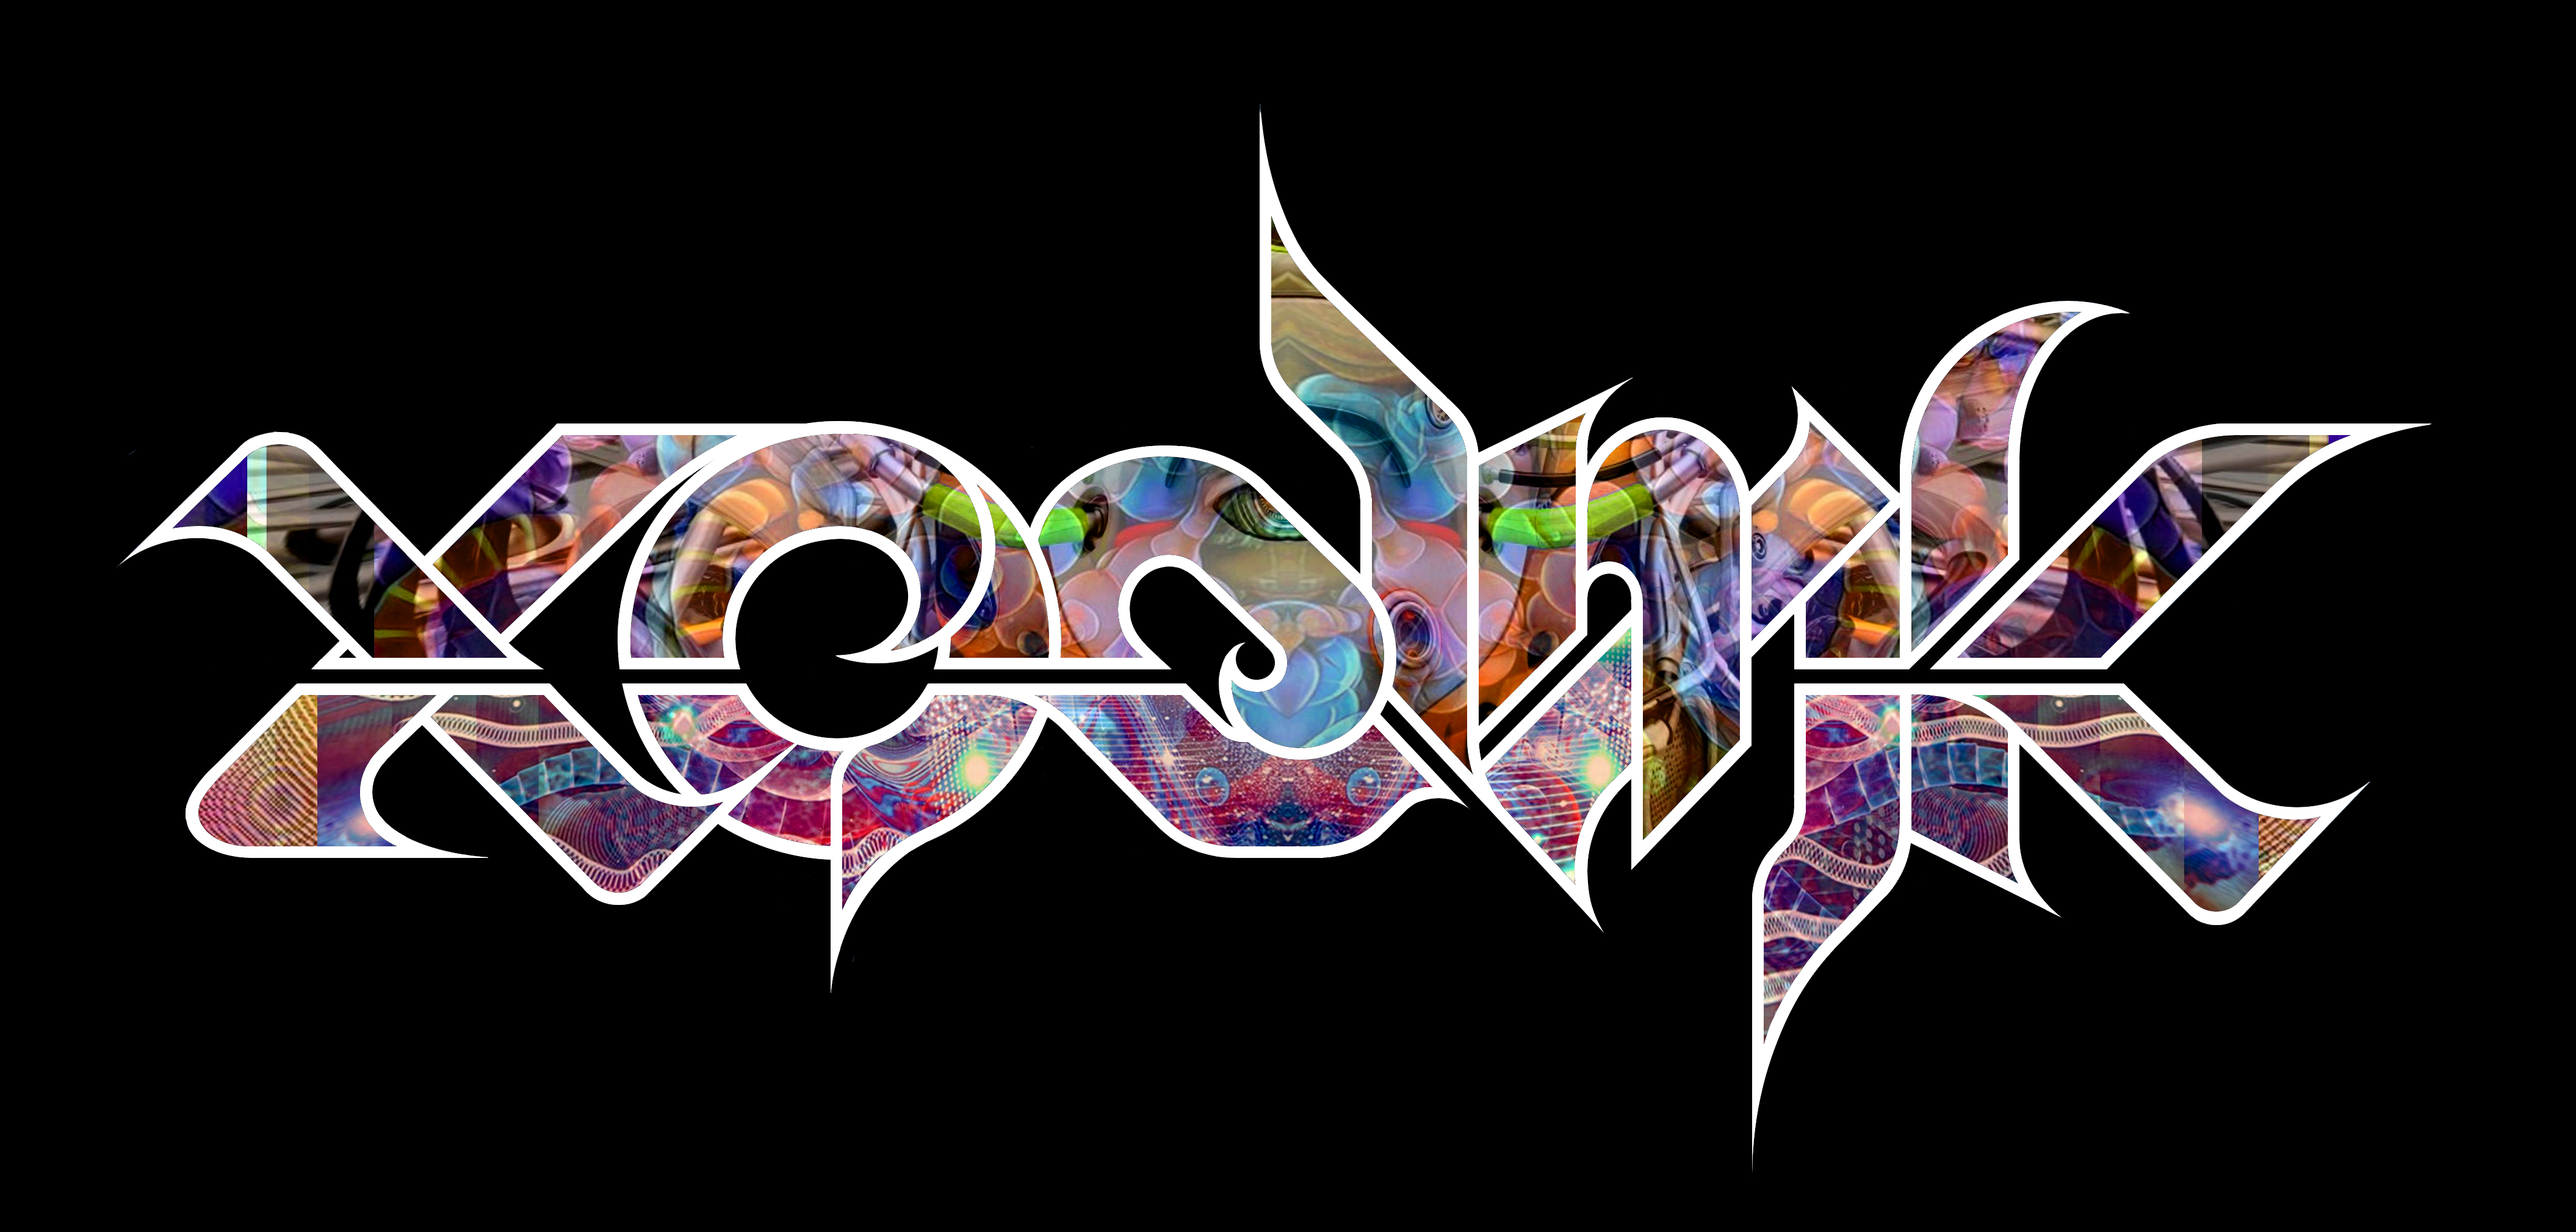
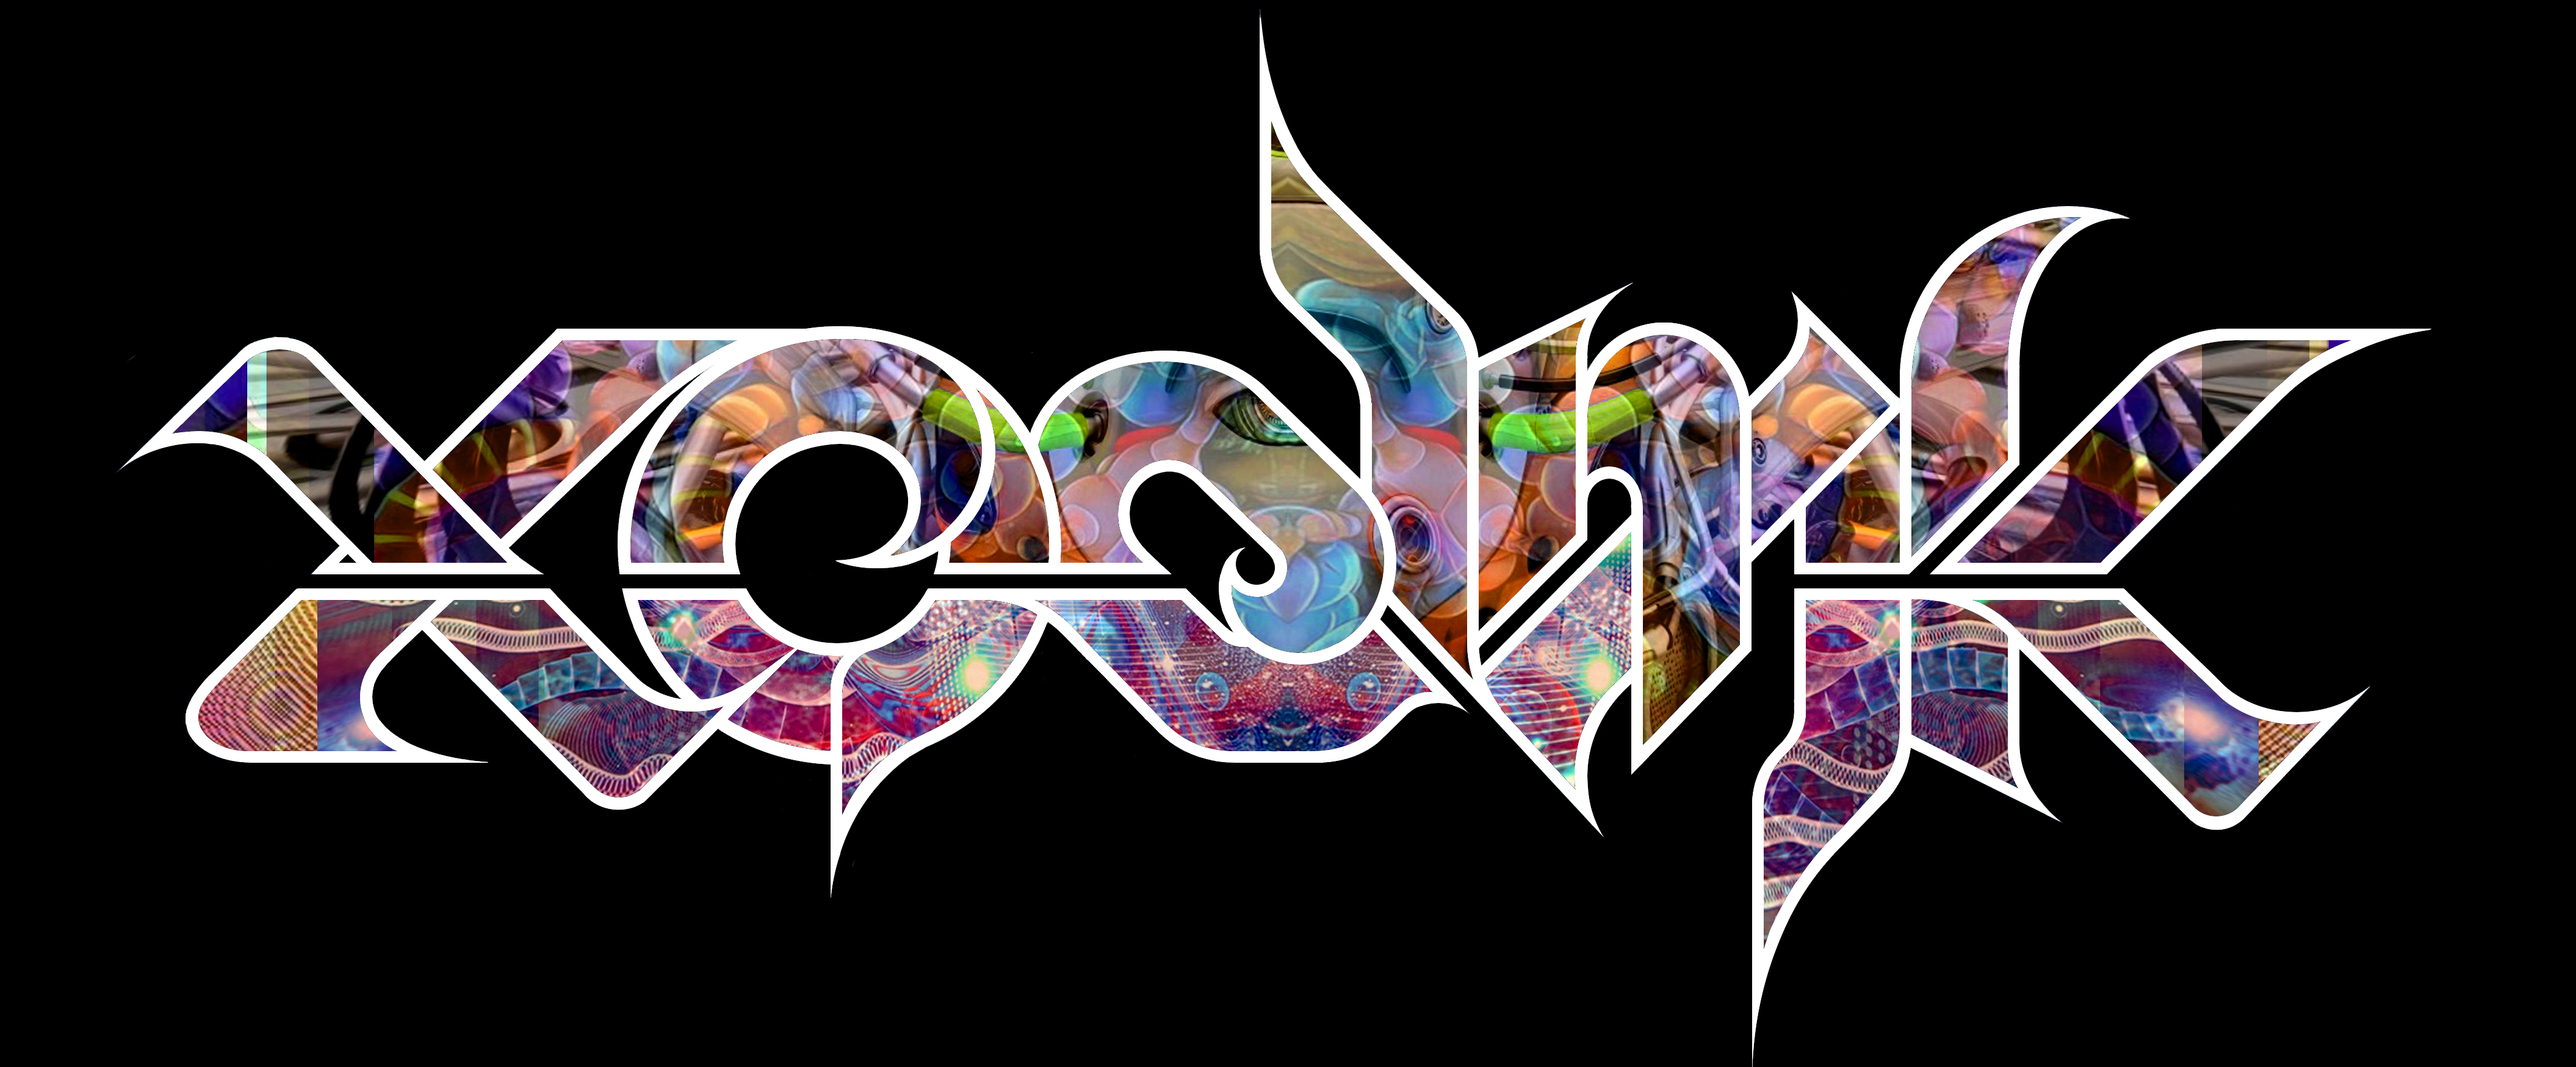
updated index w/ new gfx

Changed region(s): [[0.031, 0.0617, 0.9311, 0.9257]]

diff --git a/index.html b/index.html
@@ -24,8 +24,8 @@
 <body>
 	<div id="banner">
 		<p class="bodyText">
-			<br>
-			<h1>XODMK</h1>
+			<!--<h1>XODMK</h1>-->
+			<img src="gfx/xodmk_93btrans.png" alt="xodmk_93" style="width:756px;height:190px;"></a>
 		</p>
 	</div>
 

diff --git a/style.css b/style.css
@@ -16,7 +16,7 @@
 #banner {
   background-color: #69b5ea;
   color: #4f4e4e;
-  height: 116px;
+  height: 180px;
   text-align: center;
 }
 
